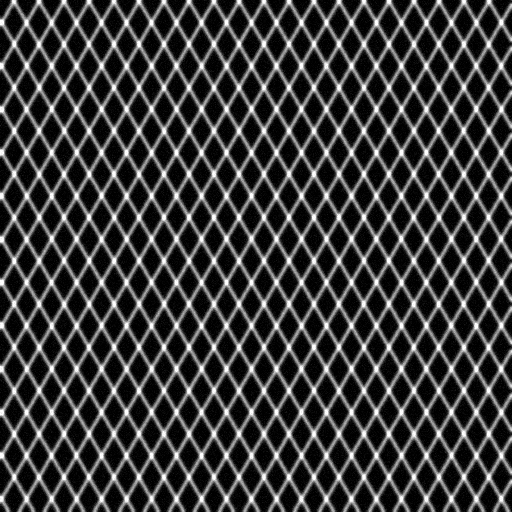
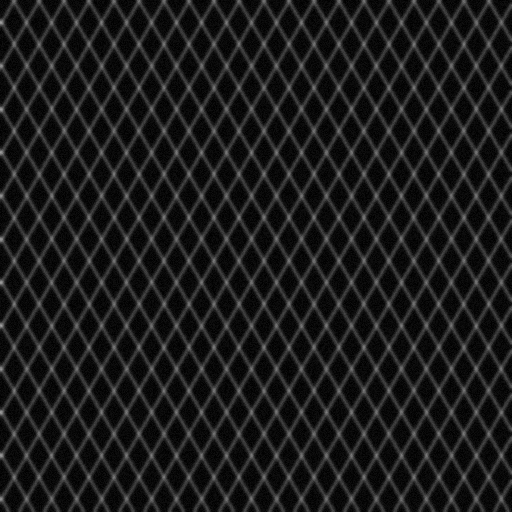
Still need to fix parabolic displace

diff --git a/2D_Experiment/generate_displaced_image.py b/2D_Experiment/generate_displaced_image.py
@@ -73,7 +73,7 @@ def create_grid(image_size, fwhm, spacing, angle, line_intensity=1.0, snr=20):
     radians = np.deg2rad(angle)
 
     # Draw lines at +60 degrees
-    for x in range(-w, w, spacing):
+    for x in range(-w, 2 * w, spacing):
         y1 = 0
         x1 = x
         y2 = h
@@ -106,64 +106,74 @@ def translate_image(image, x_translate=0, y_translate=0):
     h, w = image.shape[:2]
     translation_matrix = np.float32([[1, 0, x_translate], [0, 1, y_translate]])
     translated_image = cv2.warpAffine(image, translation_matrix, (w, h))
+
+    # Displacement Field
+    displacement_field = np.zeros((*image.shape, 2))
+    displacement_field[..., 0] = x_translate
+    displacement_field[..., 1] = y_translate
+
     return translated_image
 
 
-def rotational_displacement_transform(image, max_translation=20, max_rotation=0.4):
-    """
-    Apply a rotational displacement to the input image.
+def parabolic_transform(image, factor=0.0002):
+    height, width = image.shape[:2]
+    center_x, center_y = width // 2, height // 2
 
-    :param image:               The input image of which the transformation is performed
-    :param max_translation:     Number of pixels for translational transformation
-    :param max_rotation:        Number of degrees for rotational transformation
-    :return:                    Simulated image representing a Poiseuille flow
-    """
-    image_array = np.array(image)
+    output_image = np.zeros_like(image)
+    displacement_field = np.zeros((height, width, 2))
 
-    def rotational_displacement(x, y, translation, rotation):
-        # Center the coordinates
-        x_center = x.max() / 2
-        y_center = y.max() / 2
-        x_centered = x - x_center
-        y_centered = y - y_center
+    for y in range(height):
+        for x in range(width):
+            # Distance of the pixel from the center
+            dx, dy = x - center_x, y - center_y
+            distance = np.sqrt(dx ** 2 + dy ** 2)
 
-        # Calculate the radius and angle for each point
-        radius = np.sqrt(x_centered ** 2 + y_centered ** 2)
-        angle = np.arctan2(y_centered, x_centered)
+            # Compute the rotation angle proportional to the distance
+            angle = factor * distance
 
-        # Apply the rotational displacement
-        angle_new = angle + rotation * (radius / radius.max())
-        radius_new = radius + translation * (radius / radius.max())
+            # Compute the perpendicular rotation
+            cos_angle = np.cos(angle)
+            sin_angle = np.sin(angle)
 
-        # Convert back to Cartesian coordinates
-        x_new = radius_new * np.cos(angle_new) + x_center
-        y_new = radius_new * np.sin(angle_new) + y_center
+            # Perpendicular direction to the radial vector (rotated by 90 degrees)
+            perpendicular_dx = -dy
+            perpendicular_dy = dx
 
-        return x_new, y_new
+            # Apply the perpendicular rotation
+            new_x = int(center_x + cos_angle * perpendicular_dx - sin_angle * perpendicular_dy)
+            new_y = int(center_y + sin_angle * perpendicular_dx + cos_angle * perpendicular_dy)
 
-    # Get the original coordinates
-    height, width = image_array.shape
-    x = np.arange(width)
-    y = np.arange(height)
-    x, y = np.meshgrid(x, y)
+            displacement_field[y, x] = [new_x - x, new_y - y]
 
-    # Flatten the coordinates
-    x_flat = x.flatten()
-    y_flat = y.flatten()
+            # Only use valid coordinates within the image bounds
+            if 0 <= new_x < width and 0 <= new_y < height:
+                output_image[y, x] = image[new_y, new_x]
 
-    # Apply the rotational displacement
-    x_new, y_new = rotational_displacement(x_flat, y_flat, max_translation, max_rotation)
+    magnitude = np.linalg.norm(displacement_field, axis=-1)
 
-    # Interpolate the displaced image
-    displaced_image = griddata(
-        (x_flat, y_flat),
-        image_array.flatten(),
-        (x_new, y_new),
-        method='linear',
-        fill_value=0
-    ).reshape((height, width))
+    # Normalize displacement field to unit vectors, avoid division by zero
+    displacement_field_unit = np.zeros_like(displacement_field)
+    nonzero_magnitude = magnitude > 0
+    displacement_field_unit[nonzero_magnitude] = (displacement_field[nonzero_magnitude] /
+                                                  np.expand_dims(magnitude[nonzero_magnitude], axis=-1))
 
-    return displaced_image
+    # Plotting the quiver plot
+    plt.figure(figsize=(8, 6))
+
+    # Create a grid of points to plot
+    X, Y = np.meshgrid(np.arange(0, width, 10), np.arange(0, height, 10))
+    U = displacement_field_unit[::10, ::10, 0]
+    V = displacement_field_unit[::10, ::10, 1]
+    C = magnitude[::10, ::10]  # Magnitude for color
+
+    plt.quiver(X, Y, U, V, C, cmap='viridis', scale=20, scale_units='inches')
+    plt.colorbar(label='Magnitude')
+    plt.title('Unit Vector Displacement Field')
+    plt.gca().invert_yaxis()  # Invert y-axis to match image coordinates
+    plt.axis('equal')
+    plt.show()
+
+    return output_image
 
 
 # Define the parameters
@@ -173,9 +183,9 @@ angle = 60  # Angle in degrees for the intersecting lines
 image_size = (512, 512)  # Size of the image
 
 # Create the grid image
-image = create_grid(image_size, fwhm, spacing, angle, snr=1)
-translated_image = translate_image(image, x_translate=20, y_translate=20)
-rotated_image = rotational_displacement_transform(image)
+image = create_grid(image_size, fwhm, spacing, angle, snr=8)
+translated_image = translate_image(image, x_translate=5, y_translate=5)
+rotated_image = parabolic_transform(image)
 
 # Display the image
 plt.figure(figsize=(10, 5))
@@ -201,3 +211,4 @@ plt.show()
 # Save the image if needed
 cv2.imwrite('gaussian_grid.png', image)
 cv2.imwrite('gaussian_grid_trans.png', image)
+cv2.imwrite('Poiseuille flow.png', rotated_image)
